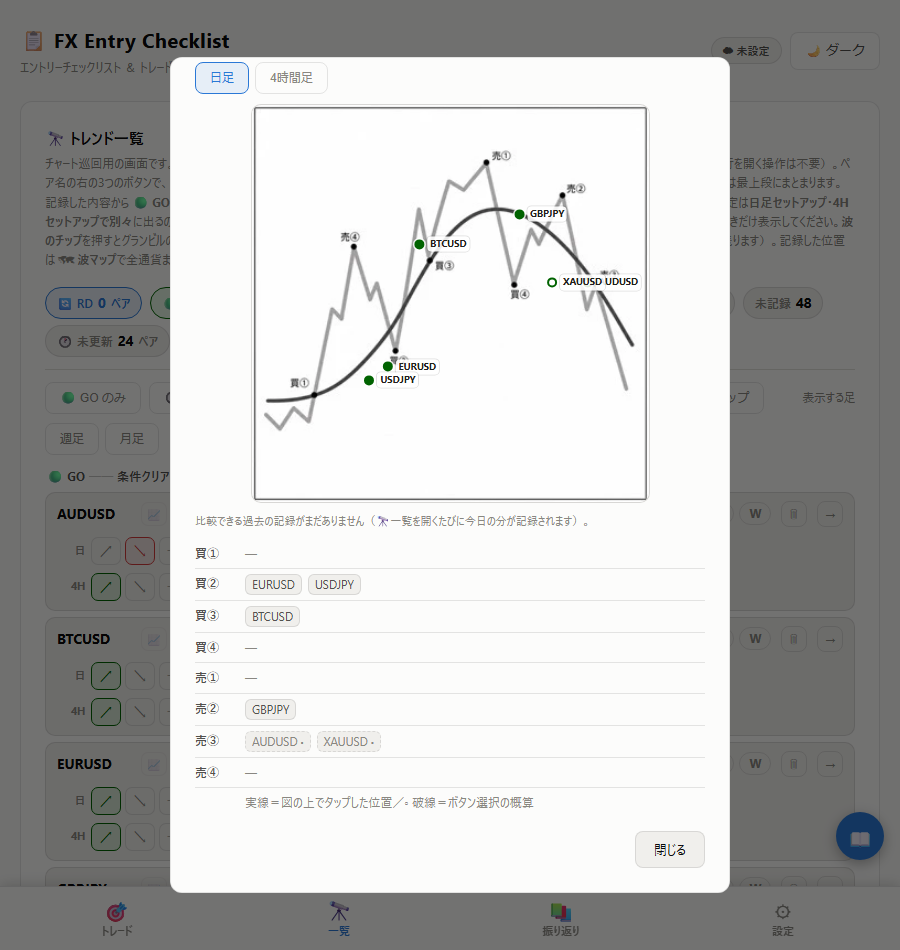
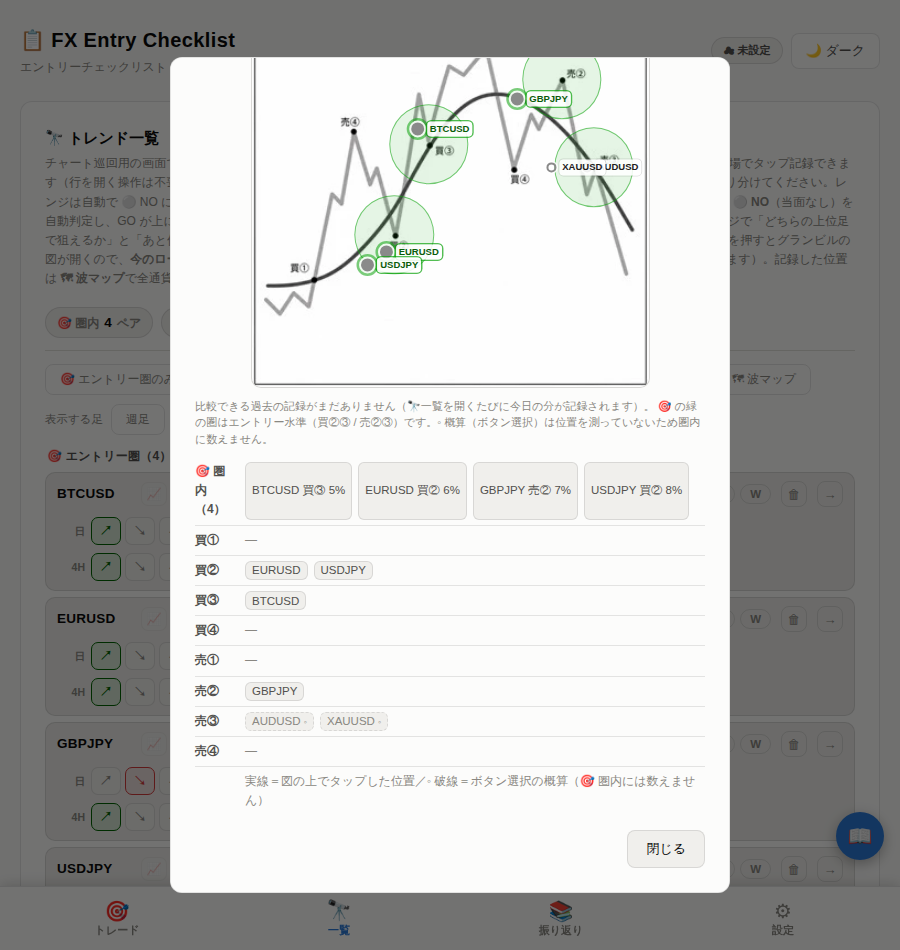
S45: グランビル・ミニ波形表示の撤去(誤表示バグ修正)
一覧行の gvMiniSvg() は、タップ記録した実座標を実アンカー座標
(MV_GRANVILLE_ANCHORS)と無関係な手描きの汎用パス(GV_MINI_PATH)に
そのまま重ねており、点の位置がタップ場所と食い違って見えていた
(買③以外の7ポジションで座標が大きくズレることを確認)。
gvMiniSvg()関数と関連定数・CSSを削除し、ラベル文字とtitleツールチップ
のみで記録の質(タップ/概算)を示す形に戻した。s40-test.mjs のミニ波形
関連アサーションも撤去に合わせて更新。sw.js: v18→v19

Claude-Session: https://claude.ai/code/session_01HN7RPay49XWCBYTwxAu67c

diff --git a/index.html b/index.html
@@ -1030,10 +1030,6 @@
   .gv-legend button.approx { border-style: dashed; color: var(--ink-muted); }
   .gv-legend button .st { font-size: 9px; }
 
-  /* 一覧の行に出す極小の波形。記録の質（タップ＝正確／ボタン＝概算）が見た目で分かる。 */
-  .gv-mini { display: block; width: 26px; height: 15px; flex: none; overflow: visible; }
-  .gv-mini path { fill: none; stroke: currentColor; stroke-width: 4; opacity: 0.45; }
-  .gv-mini circle { fill: currentColor; }
   /* S44: 行末のエントリー圏チップ兼「根拠パネルを開く」ボタン（圏内の足にだけ出る）。 */
   .tent {
     display: inline-flex; align-items: center; gap: 3px; flex: 0 0 auto;
@@ -1095,7 +1091,6 @@
      チップだけ少し詰めて余裕を作る。 */
   @media (max-width: 380px) {
     .tgv { padding: 0 7px; gap: 4px; }
-    .tgv .gv-mini { width: 22px; height: 13px; }
   }
 </style>
 </head>
@@ -1623,16 +1618,9 @@ function tfEntryDistance(w, tfKey) {
 function pairIsHot(w)        { return pairEntryDistance(w) <= GV_ENTRY_RADIUS; }
 function tfIsHot(w, tfKey)   { const d = tfEntryDistance(w, tfKey); return d !== null && d <= GV_ENTRY_RADIUS; }
 
-/* 一覧の行に出す極小の波形。アンカーと同じ 0-100 の座標系で、8つのポジションを通るように
-   引いてある（上げ → 天井 → 下げ）ので、記録した % をそのまま点として重ねられる。
-   ⚠ 縦は GV_MINI_H に潰して描く。横長の図を正方形の viewBox に入れると
-      preserveAspectRatio="none" で点が歪み、肝心の「波のどこにいるか」が読めなくなる。 */
-const GV_MINI_H = 57;   /* 100 : 57 ≒ 図の縦横比 */
-const GV_MINI_POINTS = [[2, 95], [10, 88], [19, 85], [28, 43], [33, 60], [38, 72], [45, 38],
-                        [50, 18], [54, 30], [58, 23], [63, 46], [68, 32], [74, 24], [78, 42],
-                        [83, 50], [90, 72], [97, 88]];
-const GV_MINI_PATH = GV_MINI_POINTS
-  .map((p, i) => (i ? 'L' : 'M') + p[0] + ',' + (p[1] * GV_MINI_H / 100).toFixed(1)).join(' ');
+/* S45: 一覧の行に出していた極小の波形（gvMiniSvg）を撤去した。手描きの汎用パスが
+   実アンカー座標（MV_GRANVILLE_ANCHORS）と一致しておらず、点の位置がタップ位置と
+   無関係に見える紛らわしい表示だったため。タップ記録か概算かは title の文言だけで示す。 */
 
 const MV_TF_CHECKS = [
   /* S29: グランビルはトレンド一覧（🔭）で記録した波を自動反映する連動項目になったため、
@@ -4127,16 +4115,6 @@ function trendFreshChip(w) {
   return '<span class="fresh' + cls + '" title="最終更新 ' + esc(fmtDatetime(w.trendAt)) + '">' +
     esc(text) + '</span>';
 }
-/* S40: 記録した波の位置を行の中で示す極小の波形。タップ記録が無いときは何も出さない
-   （文字ラベルだけの従来の見た目に戻る＝「概算」と「正確」が並んでも区別が付く）。 */
-function gvMiniSvg(pos) {
-  if (!pos) return '';
-  return '<svg class="gv-mini" viewBox="0 0 100 ' + GV_MINI_H + '" aria-hidden="true">' +
-    '<path d="' + GV_MINI_PATH + '"/>' +
-    '<circle cx="' + pos.x.toFixed(1) + '" cy="' + (pos.y * GV_MINI_H / 100).toFixed(1) +
-      '" r="8"/></svg>';
-}
-
 /* アラートバッジと判定ボタンは環境認識ボードと同じ data 属性を出す。
    ⚠ 属性を変えると共有ハンドラ（mvToggleAlert / mvSetJudge）から外れ、
    judgeLog が落ちて振り返りタブの時間足別統計が壊れるので触らないこと。 */
@@ -4280,7 +4258,8 @@ function trendItemHtml(w) {
       ' data-trend-zone="' + esc(w.id) + '" data-tf="' + t.k + '" data-value="' + z.v + '"' +
       ' title="' + esc(t.label) + ' EMAゾーン ' + esc(z.label) + '"><span class="dot"></span></button>').join('');
     /* グランビルは方向が決まっている足でだけ意味を持つ。レンジ・未記録では押せない。
-       S40: 図の上でタップして記録した足だけミニ波形を前置する（＝記録の質が見た目で分かる）。 */
+       S45: タップ記録か概算かは title のツールチップだけで示す（ミニ波形の点表示は
+       実際のタップ位置と対応しない紛らわしい表示だったため S45 で撤去。gvMiniSvg 参照）。 */
     const tapped = trending ? gvParsePos(cur.wpos) : null;
     return '<div class="trend-tf">' +
       '<span class="tf">' + esc(t.short) + '</span>' +
@@ -4290,7 +4269,7 @@ function trendItemHtml(w) {
         ' data-trend-granville-open="' + esc(w.id) + '" data-tf="' + t.k + '"' +
         ' title="' + esc(g ? g.label + (tapped ? '（図の上で記録）' : '（ボタン選択・位置は概算）')
                             : 'グランビルの波を選ぶ') + '">' +
-        gvMiniSvg(tapped) + (g ? esc(g.short) : '波?') + '</button>' +
+        (g ? esc(g.short) : '波?') + '</button>' +
       trendEntryChipHtml(w, t.k) +
     '</div>';
   }).join('');

diff --git a/sw.js b/sw.js
@@ -6,7 +6,7 @@
  * ⚠ index.html を更新したら CACHE の版番号を上げること。
  *   上げ忘れても HTML は network-first なので最新が届くが、assets の差し替えは届かない。
  */
-const CACHE = 'fx-checklist-v18';
+const CACHE = 'fx-checklist-v19';
 
 /* 起動に最低限必要なもの。画像は重いので事前取得せず、使われたときに入れる。 */
 const PRECACHE = ['./', './index.html', './manifest.webmanifest',

diff --git a/CLAUDE.md b/CLAUDE.md
@@ -340,9 +340,7 @@ w.trend.d = { state: 'up', zone: 'green', granville: '2', wpos: '39.4,68.1', at:
 - 📖 ボタンで既存の解説ドロワー（`guide-granville`）へ
 
 #### 一覧の行
-`wpos` があるときだけ**極小の波形 SVG**（`gvMiniSvg()`）をチップに前置する。無ければ従来どおり文字だけ＝**記録の質（正確／概算）が見た目で分かる**。375px でも残す（巡回はスマホでするので、ここで消したら意味がない。行幅は実測で 319/319px に収まることを確認済み）。
-
-⚠ ミニ波形は縦を `GV_MINI_H`(=57) に潰して描く。横長の図を正方形の viewBox に入れると点が歪み、肝心の「波のどこにいるか」が読めなくなる。
+S40時点では `wpos` があるときだけ極小の波形 SVG（`gvMiniSvg()`）を前置していたが、**S45で撤去**。手描きの汎用パス（`GV_MINI_PATH`）が実アンカー座標（`MV_GRANVILLE_ANCHORS`）と一致しておらず（買③以外の7ポジションで座標が大きくズレる）、点の位置がタップした場所と無関係に見える紛らわしい表示だったため。タップ記録／ボタン選択（概算）の区別は、チップの `title` ツールチップの文言のみで示す（ラベル文字 `g.short` は従来どおりタップ座標から正しく計算されたまま）。
 
 #### 🗺 波マップ
 🔭一覧のツールバーから開く。**一覧の絞り込み（GOのみ・未更新のみ・カテゴリ・目線）をそのまま適用**する（`trendApplyFilters()` を一覧から切り出して共有）。
@@ -464,7 +462,9 @@ dataviz スキル準拠。ライト/ダーク両モード対応。
 
 ## 実装状態
 
-**✅ 本番使用可能** — セッション44で **GO / WAIT / NO / RD の自動判定を全廃**し、🔭一覧を**エントリー圏（買②③/売②③）までの距離**を軸に組み替えた。並び順は距離の昇順、圏内の足にだけ 🎯 チップ兼「根拠」ボタンが出て、そこから根拠パネルが開く（押した足がそのまま上位足）。グランビル・ピッカーの8ボタンも撤去し、記録経路は図のタップだけになった。**スキーマ・CSV・端末間同期・統計はすべて無変更**。s44-test 59項目・s43-test 35項目・s42-test 45項目・s40-test 63項目すべて通過。sw.js: v17→v18。
+**✅ 本番使用可能** — セッション45で🔭一覧の行に出ていた**グランビルの「ミニ波形」表示（`gvMiniSvg()`）を撤去**した。タップ記録した実座標を、実アンカー座標とは無関係に手描きした汎用の山形パス（`GV_MINI_PATH`）へそのまま重ねていたため、点の位置がタップした場所と対応せず「買③のはずなのに全然違う場所に点がある」ように見える紛らわしい表示になっていた（買③のx座標だけ偶然パスと近く、他の7ポジションは大きくズレていたことをコード上の座標比較で確認）。ラベル自体（`g.short`）はタップ座標から正しく計算されているため変更不要、位置を模した点の描画だけを削除し、タップ記録／ボタン選択（概算）の区別はチップの `title` ツールチップのみで示す形に戻した。s44-test 59項目・s43-test 35項目・s42-test 45項目・s40-test 62項目（ミニ波形関連のアサーションを撤去に合わせて更新）すべて通過。sw.js: v18→v19。
+
+セッション44時点：**GO / WAIT / NO / RD の自動判定を全廃**し、🔭一覧を**エントリー圏（買②③/売②③）までの距離**を軸に組み替えた。並び順は距離の昇順、圏内の足にだけ 🎯 チップ兼「根拠」ボタンが出て、そこから根拠パネルが開く（押した足がそのまま上位足）。グランビル・ピッカーの8ボタンも撤去し、記録経路は図のタップだけになった。**スキーマ・CSV・端末間同期・統計はすべて無変更**。sw.js: v17→v18。
 
 セッション43時点：🗺 波マップに**エントリー圏**（買②③/売②③のアンカー ±10%）を追加。図の上でタップして記録した位置が圏内のものだけを強調し、凡例の先頭に近い順で並べる／`🎯 エントリー圏のみ` で絞れる。
 
@@ -494,6 +494,7 @@ dataviz スキル準拠。ライト/ダーク両モード対応。
 **S1-27 の詳細**: `memory/sessions/` 内の個別ファイルおよび `docs/SESSIONS_14_TO_18_ARCHIVE.md` / `docs/CHANGELOG_ARCHIVE.md` を参照。初期実装（S1-13）→ 環境ボード刷新（S14-18）→ 環境ボード仕様最適化（S19-21）→ 3分割エントリー・トレンド一覧追加（S22-25）→ ファイル最適化・UI改善（S26-27）
 
 | セッション | 主な変更 | 日付 |
+| 45 | 🧹 グランビル「ミニ波形」表示の撤去。行チップの `gvMiniSvg()` が、タップ記録した実座標を実アンカー座標（`MV_GRANVILLE_ANCHORS`）と無関係な手描きの汎用パス（`GV_MINI_PATH`）へそのまま重ねていたため、点の位置がタップ場所と食い違って見えるバグをユーザー報告のスクリーンショットで確認（買③以外の7ポジションで座標が大きくズレることを数値比較で特定）。`gvMiniSvg()` 関数と `GV_MINI_H`/`GV_MINI_POINTS`/`GV_MINI_PATH` 定数、`.gv-mini` CSS を削除。ラベル文字（`g.short`）とタップ/概算の区別（title属性）はそのまま残す。s40-test.mjs の関連アサーションを更新（ミニ波形が出ないことを確認する内容に変更）。スキーマ・CSV・端末間マージ・統計は無変更。s44 59項目・s43 35項目・s42 45項目・s40 62項目通過。sw.js: v18→v19 | 2026-09-03 |
 | 44 | 🧹 **GO / WAIT / NO / RD 判定の全廃**とエントリー圏を軸にした 🔭一覧。①`setupVerdict()` / `pairStatus()` / `MV_SETUPS` / `SETUP_STATUSES` / `SETUP_SIDE` / `TREND_GROUPS` / `trendSetupBadgesHtml()` と `.sbadge` CSS を削除（`SETUP_GO_WAVES` だけは `gvEntryDistance()` の圏の中心として残す）②並び順・サマリー・絞り込みを `pairEntryDistance()`（＝買②③/売②③までの最短 % 距離）に置き換え。見るのは日足・4Hだけ／概算（`wpos` 空）は数えない ③根拠パネルの入口をセットアップバッジから**圏内の足の 🎯「根拠」ボタン**へ（`trendPanel = { id, tfKey }`、押した足がそのまま `tfHigher`）④ピッカーの8ボタンと「売買8つすべて表示」を撤去し、読み取り表示を圏との距離に。記録経路は図のタップだけ ⑤波マップのドット色を中立1色＋圏内 `.hot` に、`wmBuildItems()` の `s` は空（キーは互換のため残す）。スキーマ・CSV・端末間マージ・統計は無変更。s44 59項目・s43 35項目・s42 45項目・s40 63項目通過。sw.js: v17→v18 | 2026-09-03 |
 | 28 | 🛡 データ消失対策と複数端末同期。①破損検知キルスイッチ（読み込み失敗が本物のデータを空で上書きしていたバグの修正）②全データJSONバックアップ ③PWA化（iOS の7日削除回避）④端末間マージ用タイムスタンプ ⑤Supabase 同期（要素キー単位マージ・楽観ロック） | 2026-08-25 |
 | 29 | 🔗 グランビル連動＆双方向移行ボタン。グランビルの選択肢 3択→8択統一、トレンド一覧記録をボードへ自動反映（対応足のみ読み取り専用化）、ボード↔一覧の移行ボタン新設（ペア単位＆足単位）、`MV_TF_TO_TREND_KEY` と `mvGranvilleSyncField()` で連動制御 | 2026-08-26 |
